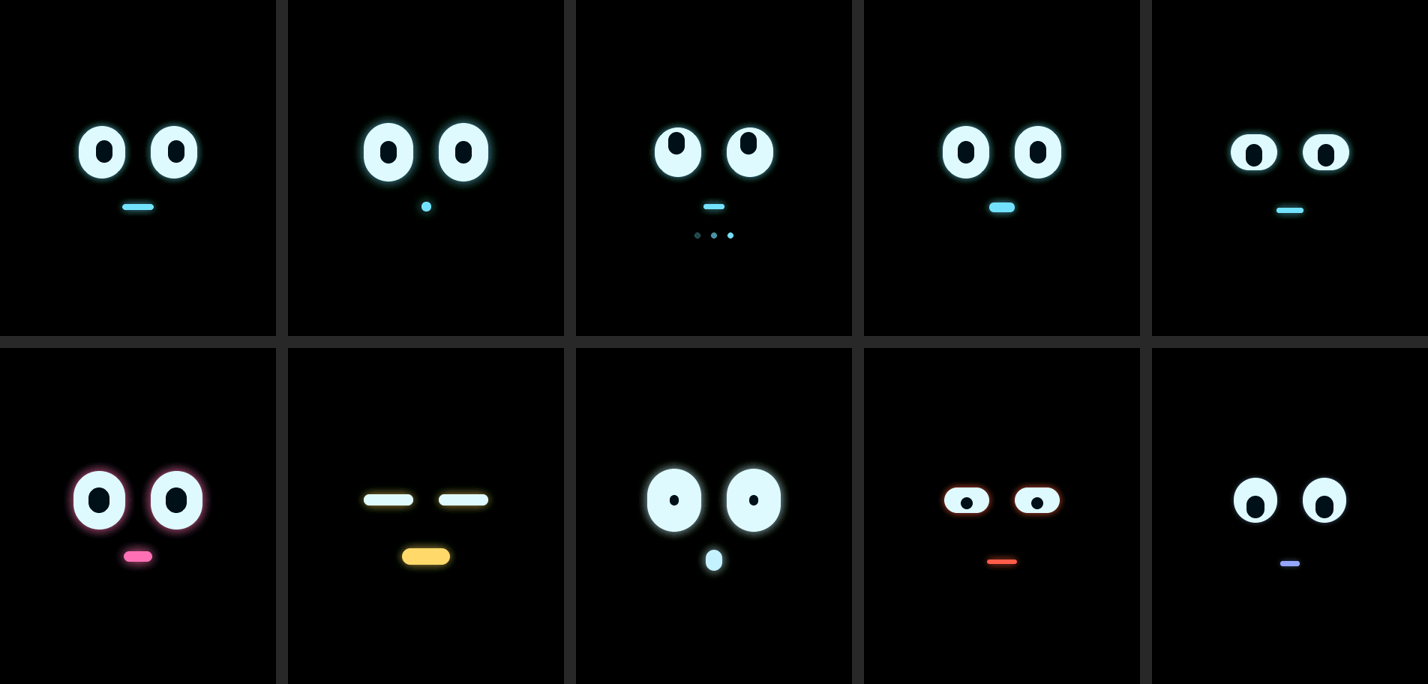
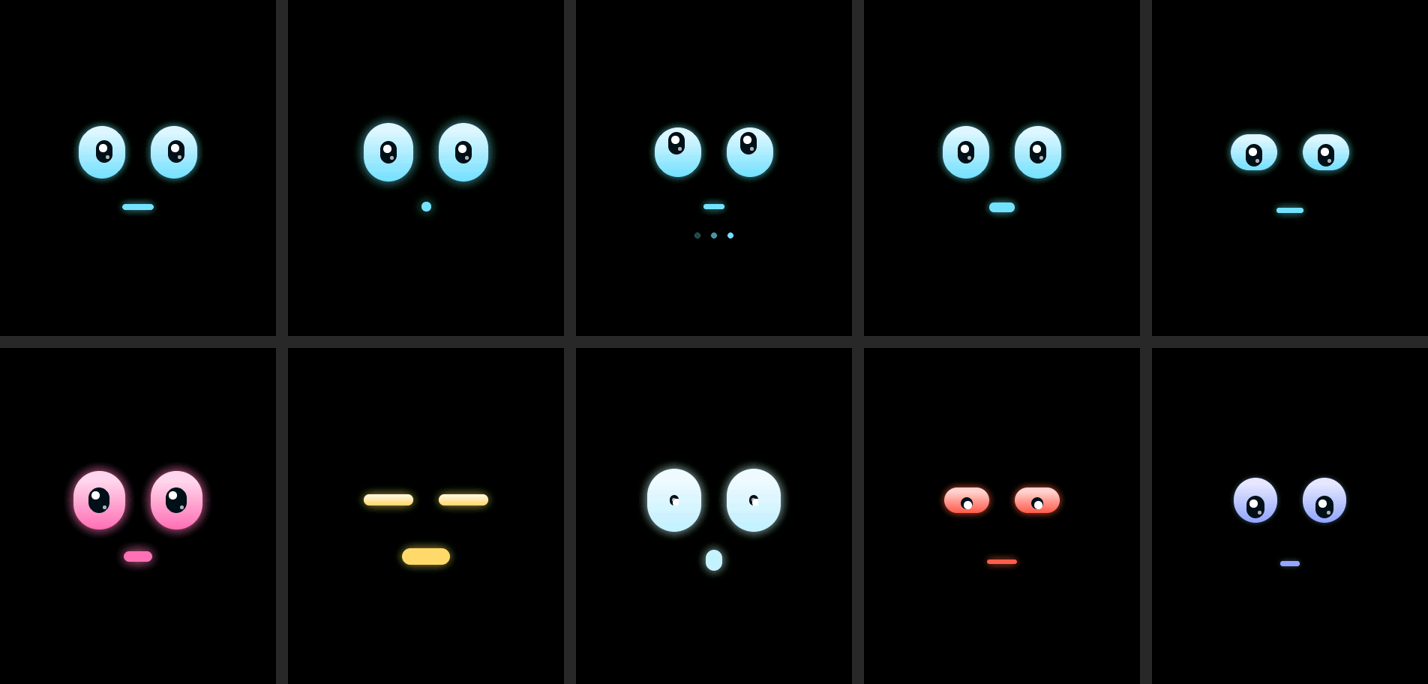
CHIPO face: lit-glass eyes with state-coloured gradient and pupil highlights for the AMOLED
Claude-Session: https://claude.ai/code/session_01QWb9hv5xYpQ7Tn1j11KHGt

diff --git a/components/chipo_face/chipo_face.cpp b/components/chipo_face/chipo_face.cpp
@@ -162,6 +162,21 @@ bool ChipoFace::Start(lv_obj_t* parent) {
     StyleGlow(right_eye_, kEyeCore, 20);
     StylePupil(left_pupil_);
     StylePupil(right_pupil_);
+    // Two specular highlights on every pupil (a big and a small one) make the eyes look wet and deep.
+    // They are children of the pupil: they move with it and are clipped when it shrinks.
+    for (lv_obj_t* pupil : {left_pupil_, right_pupil_}) {
+        for (int k = 0; k < 2; ++k) {
+            lv_obj_t* spark = lv_obj_create(pupil);
+            if (!spark) continue;
+            lv_obj_remove_style_all(spark);
+            lv_obj_set_size(spark, k == 0 ? 11 : 5, k == 0 ? 11 : 5);
+            lv_obj_set_style_bg_color(spark, lv_color_white(), LV_PART_MAIN);
+            lv_obj_set_style_bg_opa(spark, k == 0 ? LV_OPA_COVER : LV_OPA_70, LV_PART_MAIN);
+            lv_obj_set_style_radius(spark, LV_RADIUS_CIRCLE, LV_PART_MAIN);
+            lv_obj_align(spark, k == 0 ? LV_ALIGN_TOP_LEFT : LV_ALIGN_BOTTOM_RIGHT, k == 0 ? 4 : -4, k == 0 ? 5 : -5);
+            MakeInert(spark);
+        }
+    }
     StyleGlow(mouth_, kGlowBlue, 20);
     for (int i = 0; i < 3; ++i) {
         StyleGlow(dots_[i], kGlowBlue, 8);
@@ -1222,6 +1237,14 @@ void ChipoFace::ApplyLayout(const Layout& l) {
             lv_obj_set_style_shadow_color(o, color, LV_PART_MAIN);
         }
         lv_obj_set_style_bg_color(mouth_, color, LV_PART_MAIN);  // the mouth is made of the glow itself
+        // AMOLED: the eyes are lit glass, pale on top and the state's saturated colour at the bottom.
+        for (lv_obj_t* o : {left_eye_, right_eye_}) {
+            lv_obj_set_style_bg_color(o, lv_color_mix(color, lv_color_white(), 70), LV_PART_MAIN);
+            lv_obj_set_style_bg_grad_color(o, color, LV_PART_MAIN);
+            lv_obj_set_style_bg_grad_dir(o, LV_GRAD_DIR_VER, LV_PART_MAIN);
+            lv_obj_set_style_bg_main_stop(o, 40, LV_PART_MAIN);
+            lv_obj_set_style_bg_grad_stop(o, 255, LV_PART_MAIN);
+        }
     }
     if (first || l.face_dx != a.face_dx || l.face_dy != a.face_dy) {
         lv_obj_align(root_, LV_ALIGN_CENTER, l.face_dx, l.face_dy);

diff --git a/docs/CHIPO_FUN.md b/docs/CHIPO_FUN.md
@@ -18,10 +18,15 @@ De izquierda a derecha: pantalla de inicio, lámpara cálida, lámpara arcoíris
 
 "Apaga la luz del salón" no es de la lámpara: se queda para Home Assistant.
 
-## Ojos de CHIPO
+## Ojos de CHIPO (cara AMOLED)
 
-El halo de los ojos y la boca es ahora más ancho y más brillante (x1,3 de ancho, x1,25 de opacidad), porque sobre
-negro puro se lee como luz y no como una neblina gris. Los colores por estado no cambian.
+![Caras de CHIPO](img/chipo_faces.png)
+
+- Cada ojo es un cristal iluminado: claro arriba y del color saturado del estado abajo (cian en reposo, rosa en amor,
+  rojo en enfado, violeta en tristeza...).
+- Cada pupila lleva dos brillos (uno grande y uno pequeño) que se mueven con ella y se recortan al cerrar el ojo.
+- El halo es 1,3 veces más ancho y 1,25 veces más opaco: sobre negro puro se lee como luz y no como niebla gris.
+- Herramienta de capturas: `tests/host/render_faces.cpp`.
 
 ## Detalles técnicos
 
